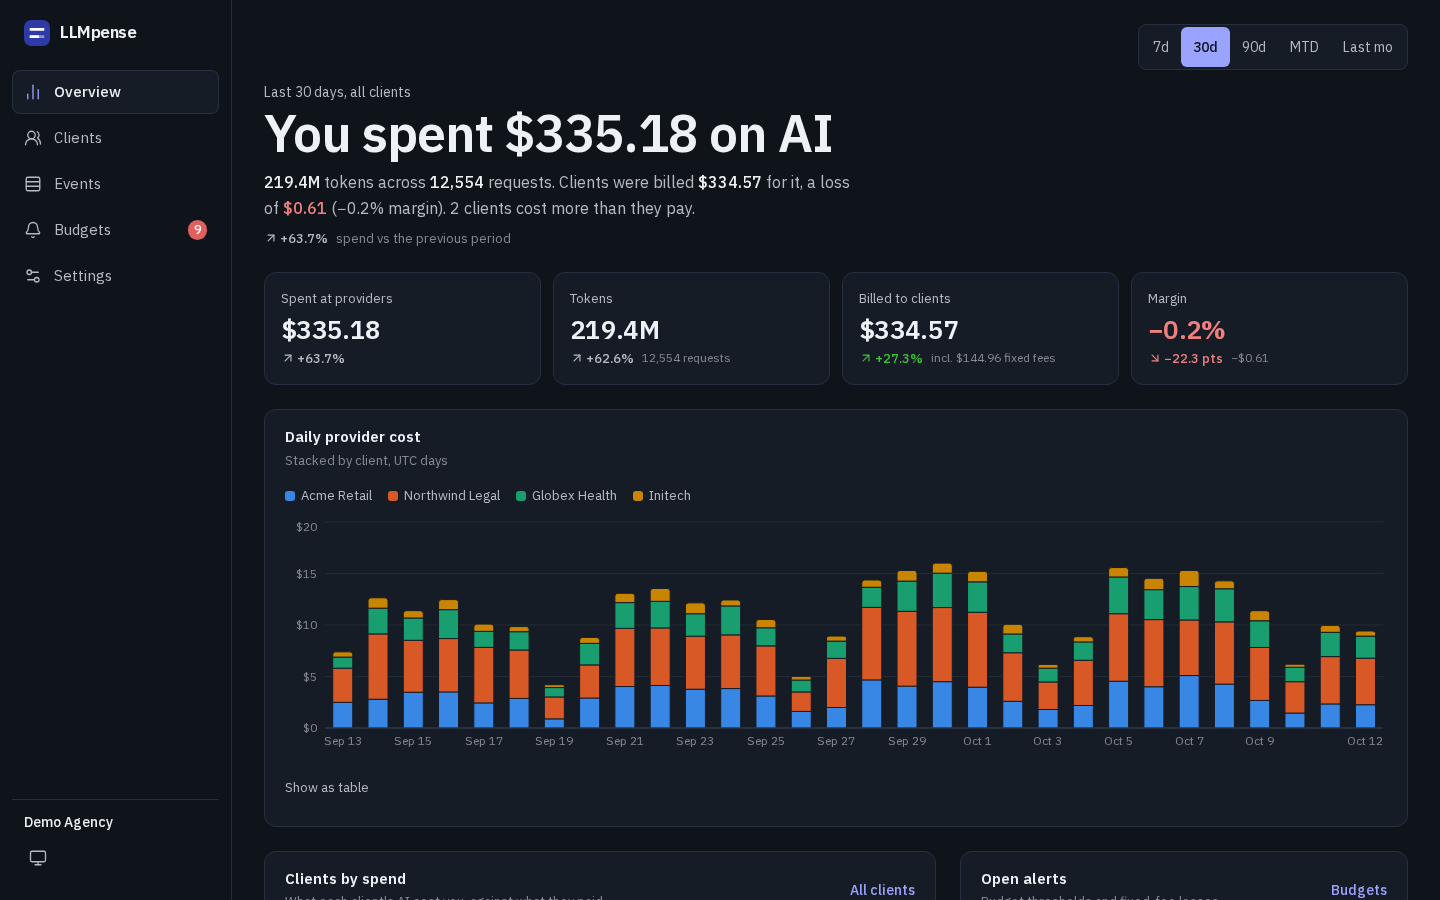
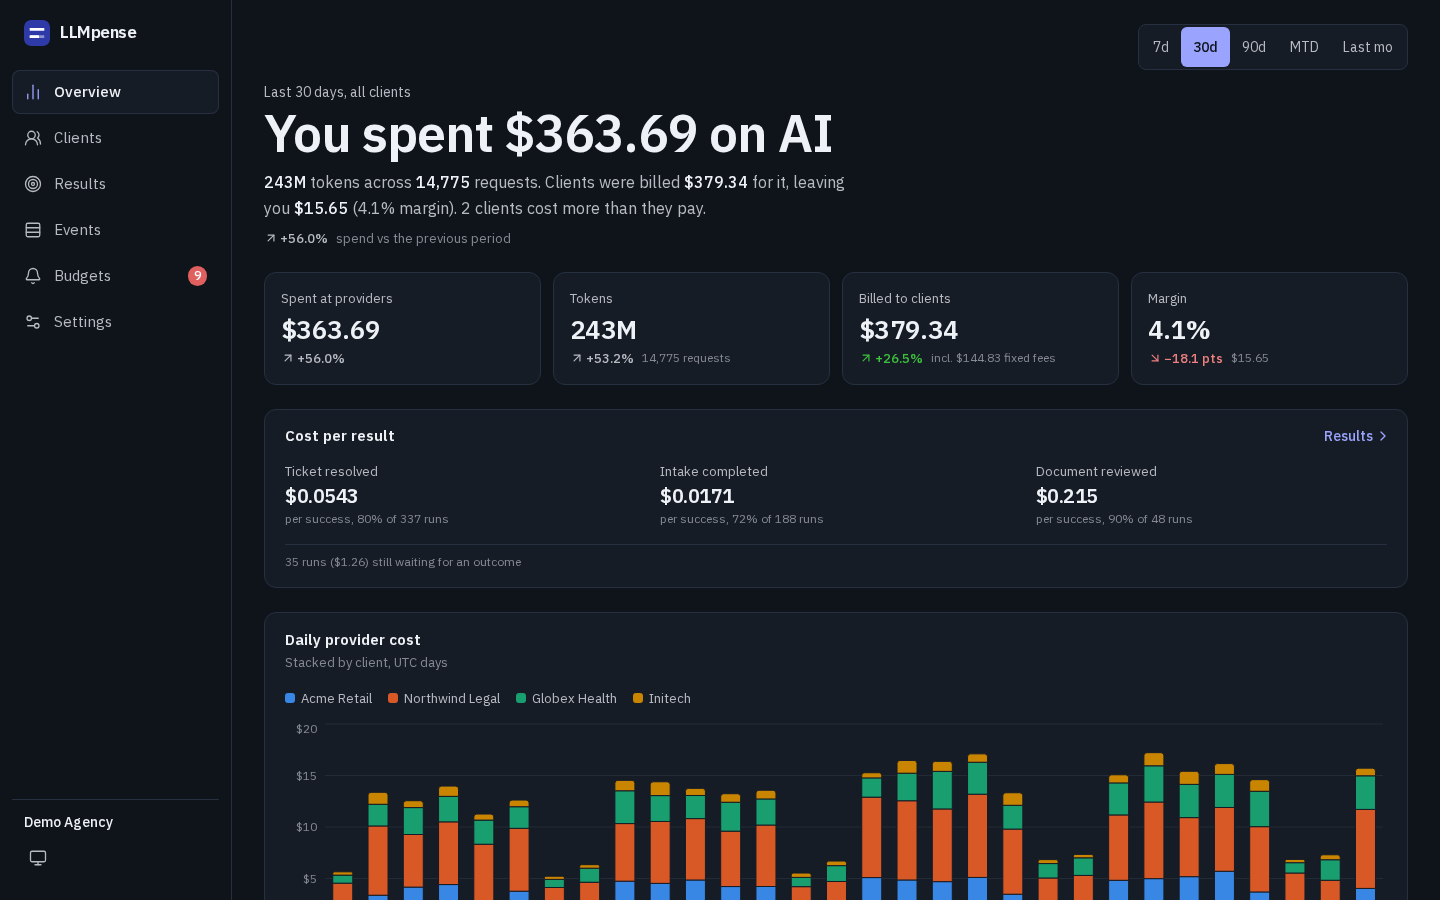
docs: refresh README screenshots and add cost per result
Retakes the screenshots with statement numbers, statuses and the results
pages, and raises the demo client's markup so the demo agency stays
profitable with the added runs.

diff --git a/packages/db/src/seed.ts b/packages/db/src/seed.ts
@@ -37,7 +37,7 @@ const orgId = org!.id;
 // project (model names hidden); the others follow the org default and name the models.
 // Payment terms: Northwind pays within 30 days, Globex within 7, the others use the org's 14.
 const CLIENTS = [
-  { slug: "acme-retail", name: "Acme Retail", billingMode: "markup", markupPct: "30", fixedFee: "0", currency: "USD", modelNames: "show", terms: null,
+  { slug: "acme-retail", name: "Acme Retail", billingMode: "markup", markupPct: "50", fixedFee: "0", currency: "USD", modelNames: "show", terms: null,
     projects: [["support-bot", "Support bot"], ["product-search", "Product search"]], scale: 1.0 },
   { slug: "northwind-legal", name: "Northwind Legal", billingMode: "fixed", markupPct: "0", fixedFee: "130", currency: "EUR", modelNames: null, terms: 30,
     projects: [["contract-review", "Contract review"]], scale: 1.6 },

diff --git a/README.md b/README.md
@@ -42,6 +42,11 @@ phone and desktop.
   <img alt="Monthly statements: what each client is billed per month, with month close" src=".github/screenshots/desktop-statements-light.png">
 </picture>
 
+<picture>
+  <source media="(prefers-color-scheme: dark)" srcset=".github/screenshots/desktop-results-dark.png">
+  <img alt="Cost per result: cost per resolved ticket including failed runs, success rate, value per dollar and the cheapest model" src=".github/screenshots/desktop-results-light.png">
+</picture>
+
 <p align="center">
   <img alt="Client-facing statement in EUR, ready to print or save as PDF" src=".github/screenshots/client-statement.png" width="520">
 </p>
